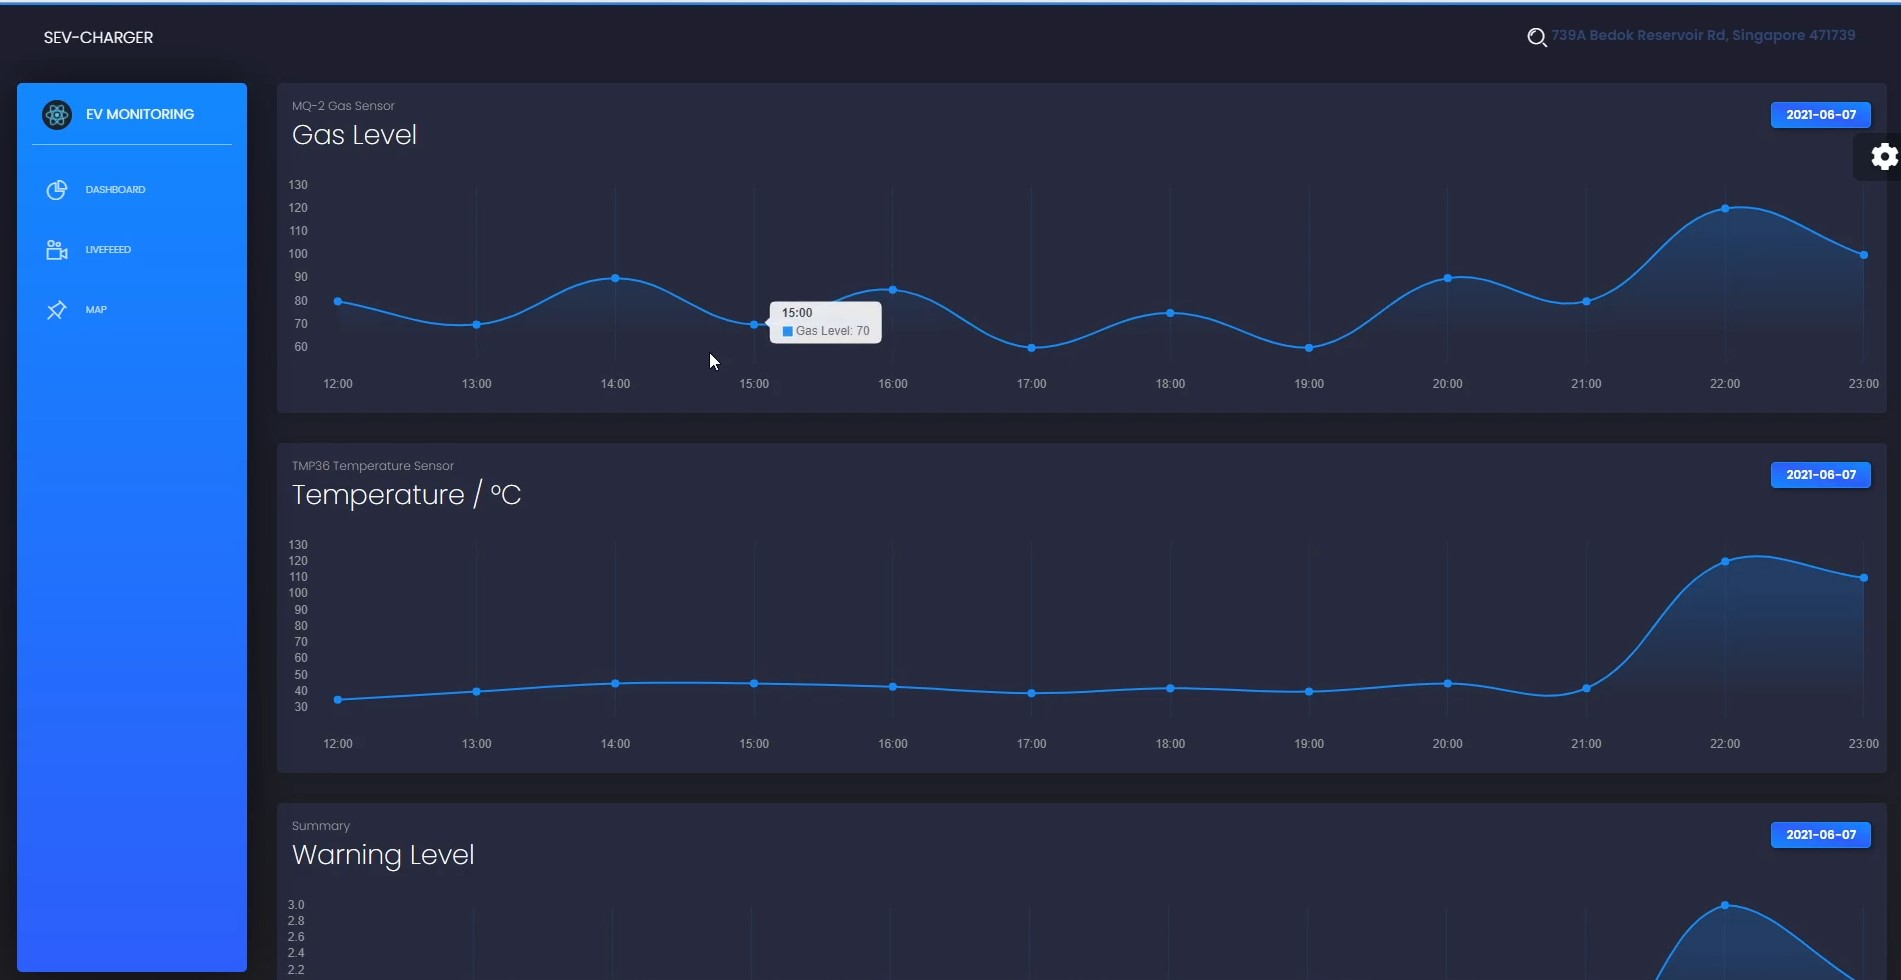
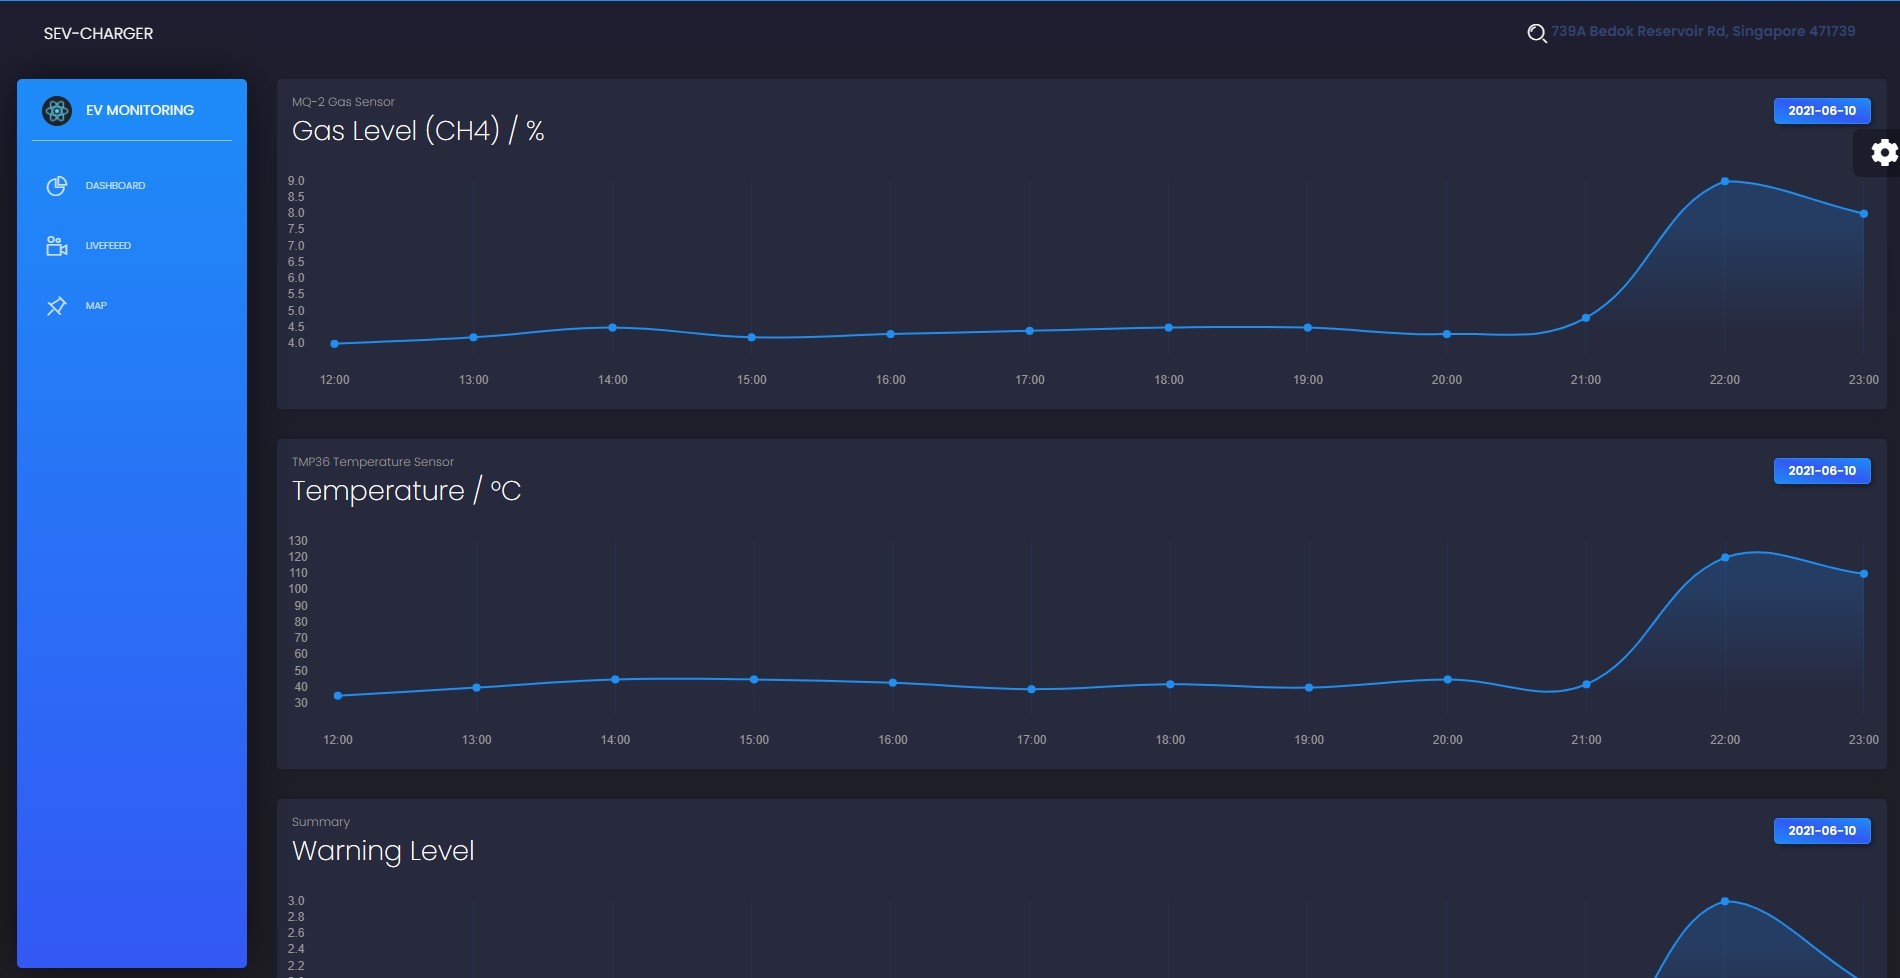
fix: readme and dashboard

diff --git a/README.md b/README.md
@@ -3,7 +3,7 @@ For SCDF Hackathon 2021
 
 ## What does this repository contain?
 
-Web Application that live streams the gas and temperature sensors value, the warning level, the video feed for IR and RBG as well as the location.
+Web Application that live streams the gas (CH4 levels) and temperature sensors value, the warning level, the video feed for IR and RBG as well as the location.
 
 ## How to use?
 
@@ -36,7 +36,7 @@ The overall architecture is broken down into three different segments: Onsite, I
 ### IBM Cloud Services
 
 - IBM Watson for IoT data storage
-- IBM Bare Metal Servers to host the React Web Application for live-streaming
+- IBM Cloud Foundry to host the React Web Application for live-streaming
 - IBM Cloud functions as a serverless backend to activate push notification
 - IBM Push Notification to send messages to Response Team on high warning level
 
